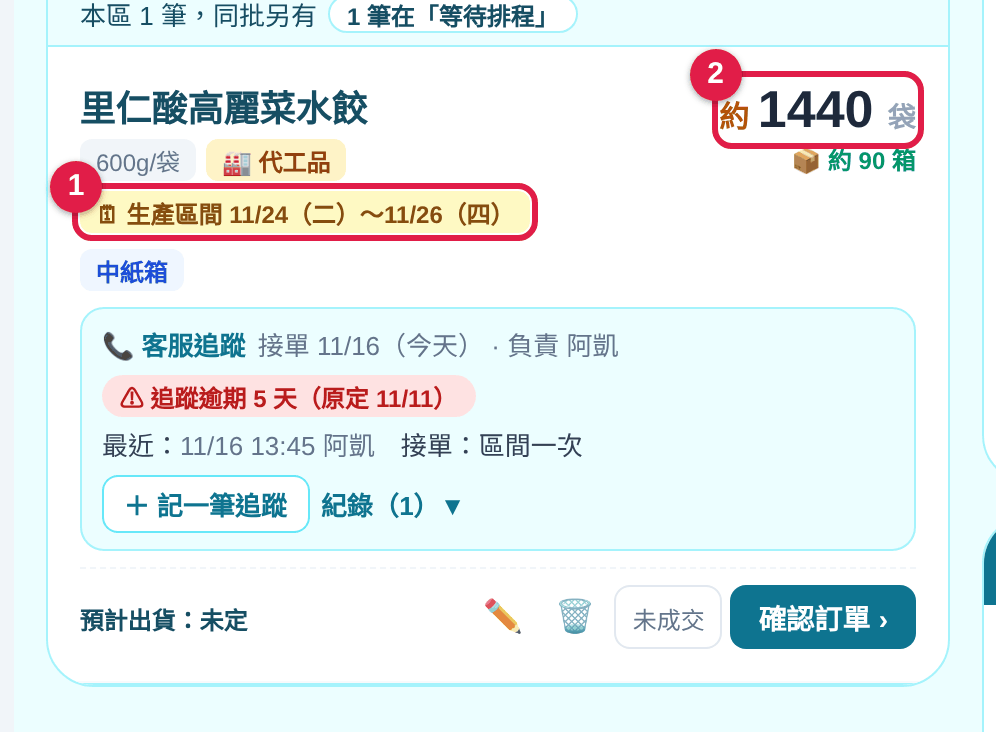
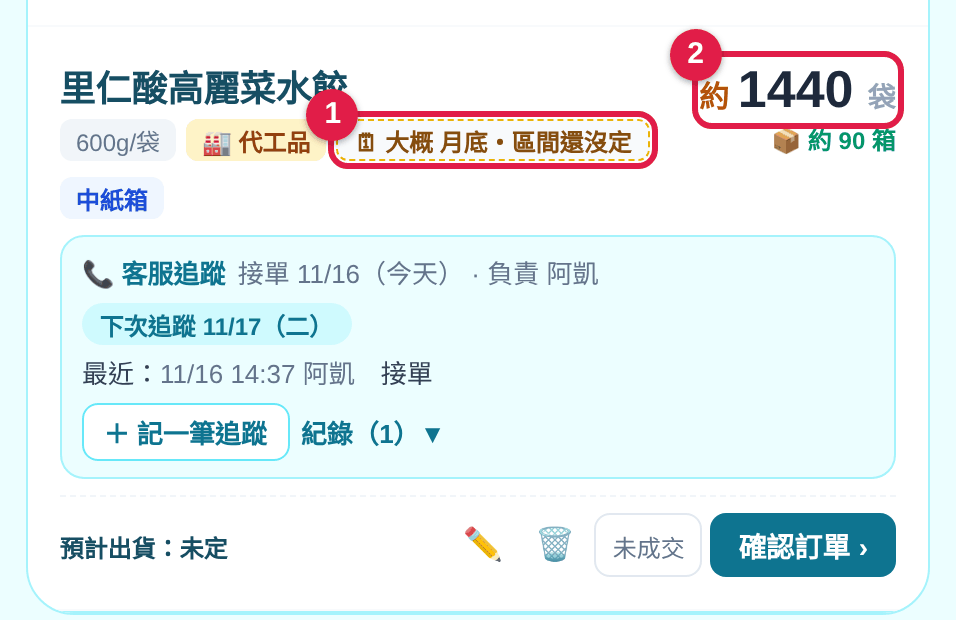
Add files via upload

diff --git a/src/pages/OrdersPage.jsx b/src/pages/OrdersPage.jsx
@@ -77,6 +77,8 @@ function packItems(o, boxes) {
 export const shipDateOf = o => toIso(o.target_date || o.targetDate)
 // 客戶指定的生產區間（代工常用：例如里仁給 11/23～11/25，生產排程科在區間內排）：cs.prodFrom／cs.prodTo
 export const prodWinOf = o => { const f = toIso(o?.cs?.prodFrom || ''), t = toIso(o?.cs?.prodTo || ''); return f && t ? { from: f, to: t } : null }
+// 代工客戶一開始常只說大概（例如「月底」）：新增時記在 cs.prodHint（文字）；客戶給了幾號～幾號，按「確認訂單」時再填生產區間
+export const prodHintOf = o => String(o?.cs?.prodHint || '').trim()
 // 數量是大概的（客戶還沒定量，例如里仁「約 1440 袋」）：cs.qtyApprox
 export const isApprox = o => !!o?.cs?.qtyApprox
 
@@ -276,6 +278,7 @@ export default function OrdersPage({ user }) {
   const [pendingOrderData, setPendingOrderData] = useState(null)
   const [formError, setFormError] = useState('')
   const [statusModal, setStatusModal] = useState(null) // {order, nextStatus, label}
+  const [confWin, setConfWin] = useState({ from: '', to: '', open: false }) // 確認訂單時填的客戶指定生產區間（代工）
   const [statusDate, setStatusDate] = useState('')
   const submitActionRef = useRef('normal')
   const [useBoxCalc, setUseBoxCalc] = useState(false)
@@ -298,7 +301,7 @@ export default function OrdersPage({ user }) {
     pack: EMPTY_PACK,
     merge: EMPTY_MERGE, // 存檔時放進 cs.merge（資料庫沒有 merge 欄位）
     payDate: '', leadDays: LEAD_DAYS, // 付款日、交期天數：存檔時放進 cs
-    prodFrom: '', prodTo: '', qtyApprox: false, // 客戶指定生產區間、數量是大概的：存檔時放進 cs
+    prodFrom: '', prodTo: '', qtyApprox: false, prodHint: '', // 客戶指定生產區間、數量是大概的、大概什麼時候做：存檔時放進 cs
   }
   const [formData, setFormData] = useState(emptyForm)
 
@@ -549,6 +552,9 @@ export default function OrdersPage({ user }) {
   const calcedQty = (parseInt(boxCountInput) || 0) * perBoxNow
 
   const formIsPre = !editingOrderId || orders.find(o => o.id === editingOrderId)?.status === 'preorder' // 新單或預排中的單
+  // 代工品：預排時只記「大概什麼時候做」；生產區間在「確認訂單」時填，確認後（或原本就有區間）才在這裡改
+  const formOem = !!(itemSpecs[String(formData.item_name || '').trim()]?.oem || specOem || formData.pack?.oem)
+  const formShowWin = !!editingOrderId && (!formIsPre || !!prodWinOf(orders.find(o => o.id === editingOrderId)))
   const handleFormSubmit = e => {
     e.preventDefault()
     setFormError('')
@@ -601,7 +607,7 @@ export default function OrdersPage({ user }) {
     const existingOrder = orders.find(o => o.id === editingOrderId)
     try {
       const now = new Date().toISOString()
-      const { merge, payDate, leadDays, prodFrom, prodTo, qtyApprox, ...data } = pendingOrderData // 併櫃、付款日、生產區間、約略數量不是資料庫欄位，放進 cs
+      const { merge, payDate, leadDays, prodFrom, prodTo, qtyApprox, prodHint, ...data } = pendingOrderData // 併櫃、付款日、生產區間、約略數量、大概時間不是資料庫欄位，放進 cs
       const row = {
         id, ...data,
         status: existingOrder?.status || 'preorder', // 新接的單先放「預排客訂」，客服確認後才到等待排程
@@ -616,6 +622,7 @@ export default function OrdersPage({ user }) {
       row.cs = applyShip(row.cs, { payDate, leadDays, merge })
       if (prodFrom && prodTo) { row.cs.prodFrom = prodFrom; row.cs.prodTo = prodTo } else { delete row.cs.prodFrom; delete row.cs.prodTo }
       if (qtyApprox) row.cs.qtyApprox = true; else delete row.cs.qtyApprox
+      if (String(prodHint || '').trim()) row.cs.prodHint = String(prodHint).trim(); else delete row.cs.prodHint
       let { error } = await supabase.from('adv_orders').upsert(row)
       const missing = []
       while (error && COL_SQL[missingCol(error)] && !missing.includes(missingCol(error))) { // 資料庫還沒有 pack／cs 欄位
@@ -663,7 +670,7 @@ export default function OrdersPage({ user }) {
       ...emptyForm, ...order, pack: { ...EMPTY_PACK, ...(order.pack || {}) }, merge: mergeOf(order),
       items_per_box: order.items_per_box || order.box_qty_each || '',
       payDate: order.cs?.payDate || '', leadDays: order.cs?.leadDays || LEAD_DAYS,
-      prodFrom: toIso(order.cs?.prodFrom || ''), prodTo: toIso(order.cs?.prodTo || ''), qtyApprox: !!order.cs?.qtyApprox,
+      prodFrom: toIso(order.cs?.prodFrom || ''), prodTo: toIso(order.cs?.prodTo || ''), qtyApprox: !!order.cs?.qtyApprox, prodHint: order.cs?.prodHint || '',
     })
     if ((order.box_count||0) > 0) { setUseBoxCalc(true); setBoxCountInput(String(order.box_count)) }
     setEditingOrderId(order.id); setIsFormOpen(true)
@@ -785,7 +792,11 @@ export default function OrdersPage({ user }) {
     setStatusErr('')
     const idx = STATES.indexOf(o.status)
     if (idx < 0 || o.status === 'shipped') return
-    if (o.status === 'preorder') setShipSt(shipStOf(o)) // 確認訂單：帶入付款日、併櫃、預計出貨日
+    if (o.status === 'preorder') { // 確認訂單：帶入付款日、併櫃、預計出貨日；代工（或已有區間、大概時間）的生產區間直接打開
+      setShipSt(shipStOf(o))
+      const w = prodWinOf(o)
+      setConfWin({ from: w?.from || '', to: w?.to || '', open: !!(w || prodHintOf(o) || isOemOrder(o, itemSpecs)) })
+    }
     else if (o.status === 'pending') setStatusDate(toIso(o.scheduled_date || o.scheduledDate) || prodWinOf(o)?.from || formatDate(new Date())) // 排入行程：已經填過排程生產日就帶入；有客戶指定區間就先帶區間第一天
     else setStatusDate(formatDate(new Date()))
     setStatusModal({ order: o, nextStatus: STATES[idx + 1], label: NEXT_ACTION[o.status] })
@@ -1050,6 +1061,28 @@ export default function OrdersPage({ user }) {
     </div>
   )
   // 排入行程：提醒出貨日、交期（生產日不要比這兩個晚）
+  // 確認訂單視窗：客戶指定生產區間（代工：客戶說「幾號～幾號之間做」）。非代工先收起來
+  const renderConfWin = o => {
+    const hint = prodHintOf(o)
+    if (!confWin.open) return (
+      <button type="button" className="op-confwin-open" onClick={() => setConfWin(c => ({ ...c, open: true }))} style={{ background: 'none', border: 'none', color: '#a16207', fontWeight: 800, fontSize: 13, cursor: 'pointer', padding: '0 0 12px', fontFamily: 'inherit' }}>＋ 客戶有指定生產區間？</button>
+    )
+    const set = (k, v) => { setStatusErr(''); setConfWin(c => { const n = { ...c, [k]: v }; if (k === 'from' && v && (!c.to || c.to < v)) n.to = v; return n }) }
+    const inp = { width: '100%', minWidth: 0, background: '#fff', border: '1px solid #fde68a', borderRadius: 10, padding: '9px', fontFamily: 'inherit', fontSize: 15 }
+    return (
+      <div className="op-confwin" style={{ background: '#fffbeb', border: '1px solid #fde68a', borderRadius: 14, padding: '10px 12px', marginBottom: 12 }}>
+        <div style={{ fontSize: 13, color: '#92400e', fontWeight: 800, marginBottom: 4 }}>🗓 客戶指定生產區間 <span style={{ fontWeight: 400, color: '#a16207', fontSize: 12 }}>（客戶說幾號～幾號之間做；還不知道可以空著）</span></div>
+        {hint && <div style={{ fontSize: 13, color: '#a16207', marginBottom: 6 }}>客戶原本說：<b>{hint}</b></div>}
+        <div style={{ display: 'grid', gridTemplateColumns: 'minmax(0,1fr) auto minmax(0,1fr)', gap: 6, alignItems: 'center' }}>
+          <input type="date" value={confWin.from} onChange={e => set('from', e.target.value)} aria-label="生產區間開始" style={inp} />
+          <span style={{ color: '#a16207', fontWeight: 800 }}>～</span>
+          <input type="date" value={confWin.to} onChange={e => set('to', e.target.value)} aria-label="生產區間結束" style={inp} />
+        </div>
+        <div style={{ fontSize: 12, color: '#a16207', marginTop: 6 }}>只有一天就兩格填一樣；生產排程科會排在這幾天內。</div>
+      </div>
+    )
+  }
+
   const renderDueInfo = (o, prod) => {
     const td = shipDateOf(o), due = o.cs?.due || '', w = prodWinOf(o)
     const limit = [td, due].filter(Boolean).sort()[0] || ''
@@ -1059,6 +1092,7 @@ export default function OrdersPage({ user }) {
         {due && <div>⏰ 交期：<b>{mdw(due)}</b>（{mdOf(o.cs.payDate)} 付款後 {o.cs.leadDays || LEAD_DAYS} 個工作天）</div>}
         {prod && limit && prod > limit && <div style={{ color: '#dc2626', fontWeight: 800 }}>⚠ 生產日比{limit === td ? '出貨日' : '交期'}晚</div>}
         {w && <div>🗓 客戶指定生產區間：<b>{winTxt(w)}</b>（請排在這幾天內）</div>}
+        {!w && prodHintOf(o) && <div>🗓 客戶說大概：<b>{prodHintOf(o)}</b>（還沒給確切區間）</div>}
         {w && prod && (prod < w.from || prod > w.to) && <div style={{ color: '#dc2626', fontWeight: 800 }}>⚠ 排程生產日不在客戶指定的區間</div>}
         {isApprox(o) && <div>數量是大概的（約 {o.quantity} 袋），量定了記得改</div>}
       </div>
@@ -1477,6 +1511,11 @@ export default function OrdersPage({ user }) {
                                 🗓 生產區間 {winTxt(w)}{late ? '・已過還沒排' : soonW ? '・快到了' : off ? '・排程日不在區間內' : ''}
                               </span>
                             })()}
+                            {!prodWinOf(o) && prodHintOf(o) && (
+                              <span className="op-hint-chip" title="客戶說的大概時間；客戶給了幾號～幾號，按「確認訂單」時再填生產區間" style={{ fontSize: 12, background: '#f8fafc', color: '#854d0e', border: '1px dashed #eab308', padding: '1px 8px', borderRadius: 6, fontWeight: 800 }}>
+                                🗓 大概 {prodHintOf(o)}・區間還沒定
+                              </span>
+                            )}
                           </div>
                         </div>
                         <div style={{ textAlign: 'right' }}>
@@ -1666,6 +1705,7 @@ export default function OrdersPage({ user }) {
               </div>
             )}
             {statusModal.order.status === 'preorder' && <>
+              {renderConfWin(statusModal.order)}
               {renderPay(shipSt, setShipP)}
               {renderMerge(shipSt.merge, p => setShipP({ merge: p }), shipSt.ship, false)}
               {renderShipDate(shipSt, setShipP, false)}
@@ -1689,9 +1729,12 @@ export default function OrdersPage({ user }) {
                 const updateData = { status: statusModal.nextStatus, updated_at: now }
                 if (o.status === 'pending') updateData.scheduled_date = statusDate
                 if (o.status === 'preorder') { // 確認訂單：出貨日可以先空著；記下誰、什麼時候確認；付款日、併櫃一起存
+                  if (!!confWin.from !== !!confWin.to) { setStatusErr('生產區間要填開始和結束（只有一天就兩格填一樣）'); return }
+                  if (confWin.from && confWin.to < confWin.from) { setStatusErr('生產區間的結束日比開始日早'); return }
                   if (shipSt.merge.on && !shipSt.merge.date) { setStatusErr('請填併櫃日期（不併櫃的話把勾勾取消）'); return }
                   updateData.target_date = shipSt.ship || ''
                   updateData.cs = applyShip({ ...(o.cs || {}), receivedAt: o.cs?.receivedAt || o.created_at, owner: o.cs?.owner || me, confirmedAt: now, confirmedBy: me, next: '' }, shipSt)
+                  if (confWin.from) { updateData.cs.prodFrom = confWin.from; updateData.cs.prodTo = confWin.to } else { delete updateData.cs.prodFrom; delete updateData.cs.prodTo }
                 }
                 const { error } = await updateOrder(o.id, updateData, '狀態已更新，但')
                 if (error) { alert('狀態更新失敗：' + error.message); return }
@@ -1842,6 +1885,7 @@ export default function OrdersPage({ user }) {
               <div style={{ fontSize: 14, color: '#64748b', marginBottom: 3 }}>客戶：<strong style={{ color: '#1e293b' }}>{pendingOrderData.customer_name}</strong></div>
               <div style={{ fontSize: 14, color: '#64748b', marginBottom: 3 }}>品項：<strong style={{ color: '#4f46e5' }}>{pendingOrderData.item_name}</strong></div>
               {pendingOrderData.prodFrom && <div style={{ fontSize: 14, color: '#64748b', marginBottom: 3 }}>客戶指定生產區間：<strong style={{ color: '#a16207' }}>{winTxt({ from: pendingOrderData.prodFrom, to: pendingOrderData.prodTo })}</strong></div>}
+              {!pendingOrderData.prodFrom && String(pendingOrderData.prodHint || '').trim() && <div style={{ fontSize: 14, color: '#64748b', marginBottom: 3 }}>大概什麼時候做：<strong style={{ color: '#a16207' }}>{String(pendingOrderData.prodHint).trim()}</strong>（區間等確認訂單時再填）</div>}
               <div style={{ fontSize: 14, color: '#64748b', marginBottom: 10 }}>出貨日：<strong style={{ color: pendingOrderData.target_date ? '#dc2626' : '#94a3b8' }}>{pendingOrderData.target_date || '未定（排好生產再定）'}</strong></div>
               <div style={{ display: 'flex', justifyContent: 'space-between', borderTop: '1px solid #e2e8f0', paddingTop: 10 }}>
                 <div>
@@ -2142,9 +2186,17 @@ export default function OrdersPage({ user }) {
               )
             })()}
 
-            {/* 9. 日期：客戶指定生產區間（代工常用）、排程生產日、出貨日（不知道可以先空著）、付款日 → 交期、併櫃 */}
+            {/* 9. 日期：大概什麼時候做（代工、預排時）／客戶指定生產區間（確認訂單後才改這裡）、排程生產日、出貨日（不知道可以先空著）、付款日 → 交期、併櫃 */}
+            {formIsPre && formOem && (
+              <div className="op-prodhint" style={{ background: '#fffbeb', border: '1px solid #fde68a', borderRadius: 14, padding: '10px 12px', marginBottom: 10 }}>
+                <div style={{ fontSize: 13, color: '#92400e', fontWeight: 800, marginBottom: 6 }}>🗓 大概什麼時候做 <span style={{ fontWeight: 400, color: '#a16207', fontSize: 12 }}>（代工：客戶怎麼說就怎麼寫；選填）</span></div>
+                <input type="text" name="prodHint" value={formData.prodHint || ''} onChange={handleInputChange} maxLength={20} placeholder="例：月底、12 月上旬" aria-label="大概什麼時候做" style={{ width: '100%', background: '#fff', border: '1px solid #fde68a', borderRadius: 10, padding: '9px 10px', fontFamily: 'inherit', fontSize: 15 }} />
+                <div style={{ fontSize: 12, color: '#a16207', marginTop: 6 }}>客戶給了幾號～幾號，到卡片上按「確認訂單」時再填生產區間。</div>
+              </div>
+            )}
+            {formShowWin && (
             <div className="op-prodwin" style={{ background: '#fffbeb', border: '1px solid #fde68a', borderRadius: 14, padding: '10px 12px', marginBottom: 10 }}>
-              <div style={{ fontSize: 13, color: '#92400e', fontWeight: 800, marginBottom: 6 }}>🗓 客戶指定生產區間 <span style={{ fontWeight: 400, color: '#a16207', fontSize: 12 }}>（代工常用：生產排程科在這幾天內排；不知道可以空著）</span></div>
+              <div style={{ fontSize: 13, color: '#92400e', fontWeight: 800, marginBottom: 6 }}>🗓 客戶指定生產區間 <span style={{ fontWeight: 400, color: '#a16207', fontSize: 12 }}>（生產排程科在這幾天內排；客戶改日期就改這裡）</span></div>
               <div style={{ display: 'grid', gridTemplateColumns: 'minmax(0,1fr) auto minmax(0,1fr)', gap: 6, alignItems: 'center' }}>
                 <input type="date" name="prodFrom" value={formData.prodFrom || ''} onChange={handleInputChange} aria-label="生產區間開始" style={{ width: '100%', minWidth: 0, background: '#fff', border: '1px solid #fde68a', borderRadius: 10, padding: '9px', fontFamily: 'inherit', fontSize: 15 }} />
                 <span style={{ color: '#a16207', fontWeight: 800 }}>～</span>
@@ -2154,6 +2206,7 @@ export default function OrdersPage({ user }) {
                 <div style={{ color: '#dc2626', fontWeight: 800, fontSize: 13, marginTop: 6 }}>⚠ 排程生產日不在客戶指定的區間</div>
               )}
             </div>
+            )}
             <div style={{ display: 'grid', gridTemplateColumns: '1fr 1fr', gap: 8, marginBottom: 12 }}>
               <div>
                 <div style={{ fontSize: 13, color: '#059669', fontWeight: 700, marginBottom: 4 }}>排程生產日</div>

diff --git a/src/pages/PreorderSop.jsx b/src/pages/PreorderSop.jsx
@@ -3,6 +3,7 @@ import { useEffect, useRef } from 'react'
 // 預排客訂 SOP（快速上手）：客訂管理 →「預排客訂」分頁最上面的「📖 預排客訂 SOP」打開
 // 截圖放在 public/sop/（網址 /sop/…）。流程或畫面有改：重拍截圖，並在 SOP_REVISIONS 最上面加一行，更新日期會跟著變
 export const SOP_REVISIONS = [
+  { date: '2026-11-16', note: '代工：生產區間改在「確認訂單」時填；新增只記「大概什麼時候做」' },
   { date: '2026-11-16', note: '初版：新增、記一筆追蹤、確認訂單、未成交；代工的生產區間與約略數量' },
 ]
 export const SOP_UPDATED = SOP_REVISIONS[0].date
@@ -14,13 +15,16 @@ const C = { main: '#0e7490', dark: '#164e63', soft: '#ecfeff', line: '#a5f3fc', 
 const IMG = {
   'preorder-01-overview.png': [1600, 1115],
   'preorder-02-form-top.png': [904, 632],
-  'preorder-03-form-bottom.png': [888, 814],
+  'preorder-03-form-bottom.png': [888, 588],
   'preorder-04-card.png': [996, 638],
   'preorder-05-followup.png': [932, 696],
-  'preorder-06-confirm.png': [840, 1050],
+  'preorder-06-confirm.png': [840, 1112],
   'preorder-07-lost.png': [720, 718],
-  'preorder-08-oem-card.png': [996, 732],
-  'preorder-09-oem-list.png': [554, 212],
+  'preorder-08-oem-card.png': [956, 620],
+  'preorder-09-oem-list.png': [1600, 419],
+  'preorder-10-oem-new.png': [856, 258],
+  'preorder-11-oem-confirm.png': [840, 1372],
+  'preorder-12-oem-pending.png': [956, 464],
 }
 
 const SECTIONS = [
@@ -37,8 +41,8 @@ const H = ({ id, children }) => (
   <h3 id={id} style={{ scrollMarginTop: 118, fontSize: 19, fontWeight: 900, color: C.dark, margin: '30px 0 10px', paddingBottom: 6, borderBottom: `2px solid ${C.line}` }}>{children}</h3>
 )
 const P = ({ children, style }) => <p style={{ margin: '0 0 10px', lineHeight: 1.75, ...style }}>{children}</p>
-const Ol = ({ items }) => (
-  <ol style={{ margin: '0 0 12px', paddingLeft: 24, lineHeight: 1.75 }}>
+const Ol = ({ items, start }) => (
+  <ol start={start} style={{ margin: '0 0 12px', paddingLeft: 24, lineHeight: 1.75 }}>
     {items.map((t, i) => <li key={i} style={{ marginBottom: 4 }}>{t}</li>)}
   </ol>
 )
@@ -154,11 +158,11 @@ export default function PreorderSop({ onClose }) {
             '依序填：客戶名稱 → 品項規格 → 訂購數量。打品項名稱會自動帶入每袋重量、箱子、包材等固定規格。',
             '數量還不確定，就勾數量旁邊的「約（大概的量）」。',
             '特殊備註、併箱口味、理貨與裝箱、包材：有特殊需求才改，固定品項已經帶好。',
-            '最下面的日期都可以空著；代工客戶有給生產區間，就填「客戶指定生產區間」（見「代工」）。',
+            '最下面的日期都可以空著。代工品會多一格「🗓 大概什麼時候做」（見「代工」）；生產區間等客戶給了幾號～幾號，按「確認訂單」時再填。',
             '按「確認儲存」，看一下確認視窗，再按「確認無誤，正式存檔」。',
           ]} />
           <Shot src="preorder-02-form-top.png" alt="新增客訂表單：上半" cap="① 客戶名稱　② 品項規格（打字搜尋）　③ 訂購數量　④ 約（大概的量）" />
-          <Shot src="preorder-03-form-bottom.png" alt="新增客訂表單：下半" cap="① 客戶指定生產區間（代工才填）　② 確認儲存" />
+          <Shot src="preorder-03-form-bottom.png" alt="新增客訂表單：下半" cap="① 預計出貨日（不知道可以空著）　② 確認儲存" />
           <P>存好後卡片會出現在「預排客訂」，負責人就是你。</P>
 
           <H id="sop-log">步驟 2　每次聯絡客戶，記一筆追蹤</H>
@@ -186,6 +190,7 @@ export default function PreorderSop({ onClose }) {
             '按「確認訂單 ›」。',
             <>視窗裡的欄位都是選填：
               <Ul items={[
+                '客戶指定生產區間：代工品會直接打開（見「代工」）；一般品項客戶有指定日期，才點「＋ 客戶有指定生產區間？」。',
                 '付款日：要先付款才排生產的單才填；填了自動算交期（付款日後 20 個工作天）。',
                 '併櫃：這批要跟別的貨一起上櫃才勾。',
                 '預計出貨日：不知道就先空著。',
@@ -193,7 +198,7 @@ export default function PreorderSop({ onClose }) {
             </>,
             '按視窗下方的「確認 確認訂單」。',
           ]} />
-          <Shot src="preorder-06-confirm.png" alt="確認訂單視窗" cap="① 付款日（選填，填了自動算交期）　② 確認 確認訂單" />
+          <Shot src="preorder-06-confirm.png" alt="確認訂單視窗" cap="① 客戶有指定生產區間才點開　② 付款日（選填，填了自動算交期）　③ 確認 確認訂單" />
           <P>出貨日先空著的單：等生產排程科排好生產日，「預排客訂」上方會出現「🚚 已排好生產、等客服定出貨日」，按「🚚 定出貨日」補上就好。</P>
 
           <H id="sop-lost">步驟 4　沒成交 → 按「未成交」</H>
@@ -205,22 +210,31 @@ export default function PreorderSop({ onClose }) {
           ]} />
 
           <H id="sop-oem">代工（里仁等）要多做的</H>
-          <P>代工客戶常只給「生產區間」和大概的數量；建單時把這兩項填進欄位，生產排程科排程時就看得到。</P>
+          <P>代工客戶常先說大概的時間（例如「月底要做」）和大概的數量，日期快到了才給「幾號～幾號之間做」。所以<b>新增時只記大概，確認訂單時才填生產區間</b>。</P>
           <Ol items={[
-            '「客戶指定生產區間」填開始～結束。只知道「下旬」就先填 21～30 日，之後再改窄；只有一天就兩格填一樣。',
-            '數量還不確定就勾「約（大概的量）」，卡片會顯示「約 1440 袋」；量定了把數字改掉、取消勾選。',
-            '卡片會顯示「🗓 生產區間 11/24～11/26」：快到了變橘色，過了還沒排變紅色。',
-            '生產排程科在「生產排程」頁的「🏭 代工」清單看得到這張單；按「排入行程」時會先帶區間第一天，排到區間外會紅字警告。',
+            '新增：數量還不確定就勾「約（大概的量）」；「🗓 大概什麼時候做」照客戶說的寫，例如「月底」。',
+            '下次追蹤日排在那之前幾天，提醒自己去問確切日期（「大概」是文字，系統不會自動提醒）。',
           ]} />
-          <Shot src="preorder-08-oem-card.png" alt="代工卡片" cap="① 生產區間　② 約的數量" />
-          <Shot src="preorder-09-oem-list.png" alt="生產排程頁的代工清單" cap="生產排程科在「生產排程」頁看到的「🏭 代工」清單：區間、排定的生產日、提醒" />
-          <P style={{ background: '#fffbeb', border: '1px solid #fde68a', borderRadius: 10, padding: '8px 12px', color: '#92400e', fontWeight: 700 }}>⚠ 區間不要只寫在追蹤紀錄的文字裡，系統讀不到。</P>
+          <Shot src="preorder-10-oem-new.png" alt="新增客訂：大概什麼時候做" cap="① 大概什麼時候做（代工品才有這格）" />
+          <Shot src="preorder-08-oem-card.png" alt="代工預排卡片" cap="① 大概的時間（生產排程頁的代工清單也看得到）　② 約的數量" />
+          <Ol start={3} items={[
+            '客戶給了幾號～幾號 → 按卡片上的「確認訂單 ›」，視窗最上面「🗓 客戶指定生產區間」填開始～結束（只有一天就兩格填一樣），再按「確認 確認訂單」。',
+          ]} />
+          <Shot src="preorder-11-oem-confirm.png" alt="確認訂單：填客戶指定生產區間" cap="① 填客戶給的幾號～幾號（上面會提示客戶原本說的）　② 確認 確認訂單" />
+          <Ol start={4} items={[
+            '確認後卡片顯示「🗓 生產區間 M/D～M/D」：快到了變橘色，過了還沒排變紅色。客戶改日期 → 按 ✏ 改區間。',
+            '生產排程科在「生產排程」頁的「🏭 代工」清單看得到；按「排入行程」時會先帶區間第一天，排到區間外會紅字警告。',
+          ]} />
+          <Shot src="preorder-12-oem-pending.png" alt="等待排程的代工卡片" cap="① 生產區間（快到了變橘色）" />
+          <Shot src="preorder-09-oem-list.png" alt="生產排程頁的代工清單" cap="生產排程頁的「🏭 代工」清單：大概的時間、區間、排定的生產日、提醒" />
+          <P style={{ background: '#fffbeb', border: '1px solid #fde68a', borderRadius: 10, padding: '8px 12px', color: '#92400e', fontWeight: 700 }}>⚠ 生產區間不要只寫在追蹤紀錄或備註裡，系統讀不到；客戶給了日期就按「確認訂單」填進去。</P>
 
           <H id="sop-faq">常見問題</H>
           <Table head={['問題', '怎麼做']} rows={[
             ['負責人顯示「使用者」', '登入功能上線前建的舊單；之後新建、新記的都會是真名'],
             ['看到登入畫面', '從公司入口點「生產排程」進來會自動登入；直接開網址就用入口的帳號密碼'],
             ['要改數量、品項、日期', '按卡片上的 ✏，改完存檔'],
+            ['代工客戶改了生產日期', '已確認的單按 ✏，改「客戶指定生產區間」'],
             ['建錯單', '按 🗑 永久刪除（會先問你確定）；客戶沒要的單請用「未成交」'],
             ['未成交的單客戶又要了', '到最下面「未成交紀錄」恢復'],
             ['共用電腦、平板', '用完按右上角「登出」，下一個人才不會記成你的名字'],

diff --git a/src/pages/SchedulePage.jsx b/src/pages/SchedulePage.jsx
@@ -3,7 +3,7 @@ import { supabase } from '../lib/supabase'
 import { fmtDT, loadPage, loadLogs, savePageData, addLog, AdjustLog } from '../lib/pageSave'
 import { DEFAULT_PPB, DEFAULT_MAX_CAP, isoOf, parseIso, addDays, wdOf, mdOf, todayIso, toIso, WD } from '../lib/flavors'
 import { flavorGroups } from './SalesPage' // 品項與分類跟著銷售計畫
-import { orderAnomalies, shipDateOf, isOemOrder, prodWinOf, isApprox } from './OrdersPage'
+import { orderAnomalies, shipDateOf, isOemOrder, prodWinOf, prodHintOf, isApprox } from './OrdersPage'
 
 // ③ 生產排程（生產排程科）＝ Excel「3.生產排程表」＋「庫存量預估表」
 // 每日庫存 ＝ 前一天庫存 − 每日預估銷售量（含節日加乘）− 當天已確定銷售量 ＋ 當天入庫量
@@ -992,7 +992,7 @@ export default function SchedulePage() {
                       <div key={x.o.id} className={`ps-oem-row${x.flag ? ` ${x.flag}` : ''}${x.sd ? ' done' : ''}`}>
                         <span className="d">
                           {x.sd ? `${mdOf(x.sd)}（${wdOf(x.sd).slice(1)}）生產`
-                            : x.w ? `區間 ${mdOf(x.w.from)}${x.w.to !== x.w.from ? `～${mdOf(x.w.to)}` : ''}` : '日期未定'}
+                            : x.w ? `區間 ${mdOf(x.w.from)}${x.w.to !== x.w.from ? `～${mdOf(x.w.to)}` : ''}` : prodHintOf(x.o) ? `大概 ${prodHintOf(x.o)}` : '日期未定'}
                         </span>
                         <span className="c">{x.o.customer_name || x.o.customerName || ''}</span>
                         <span className="i">{x.o.item_name || x.o.itemName || ''}</span>
